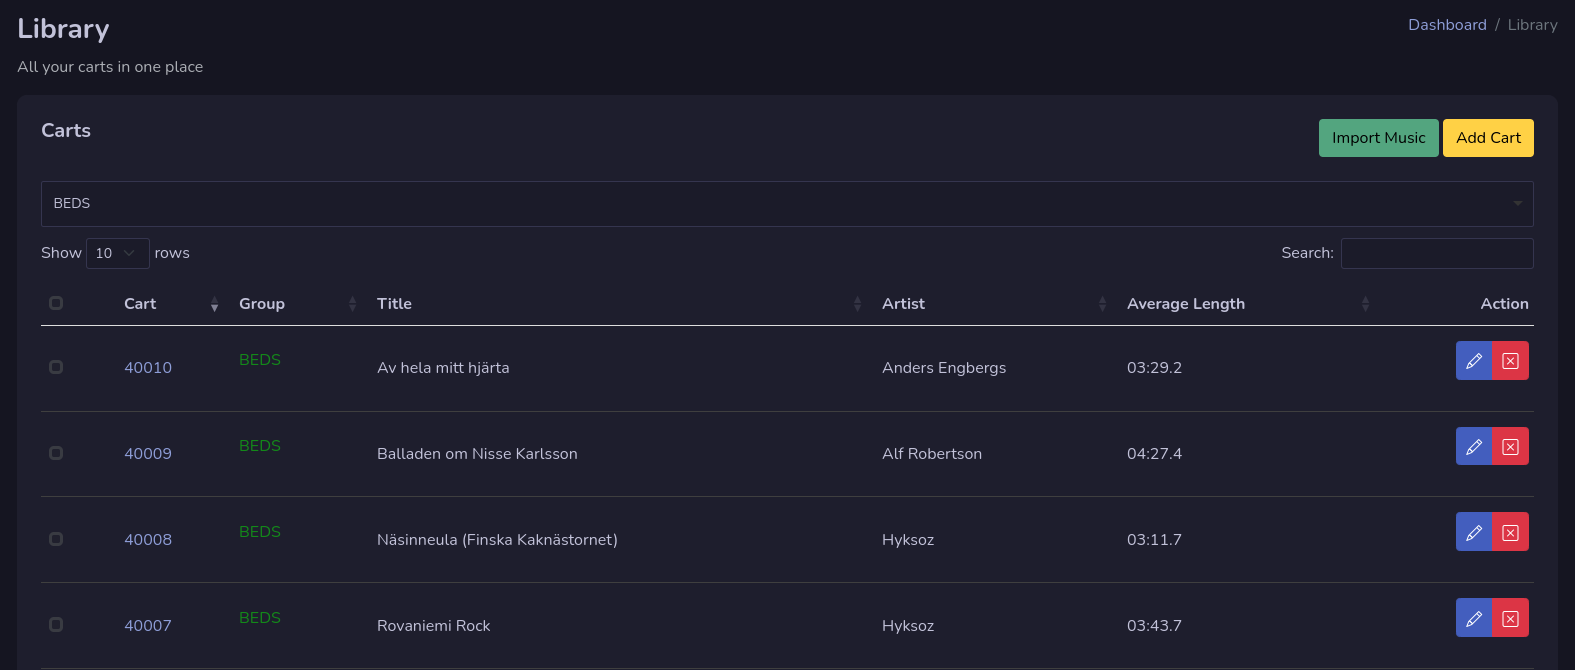
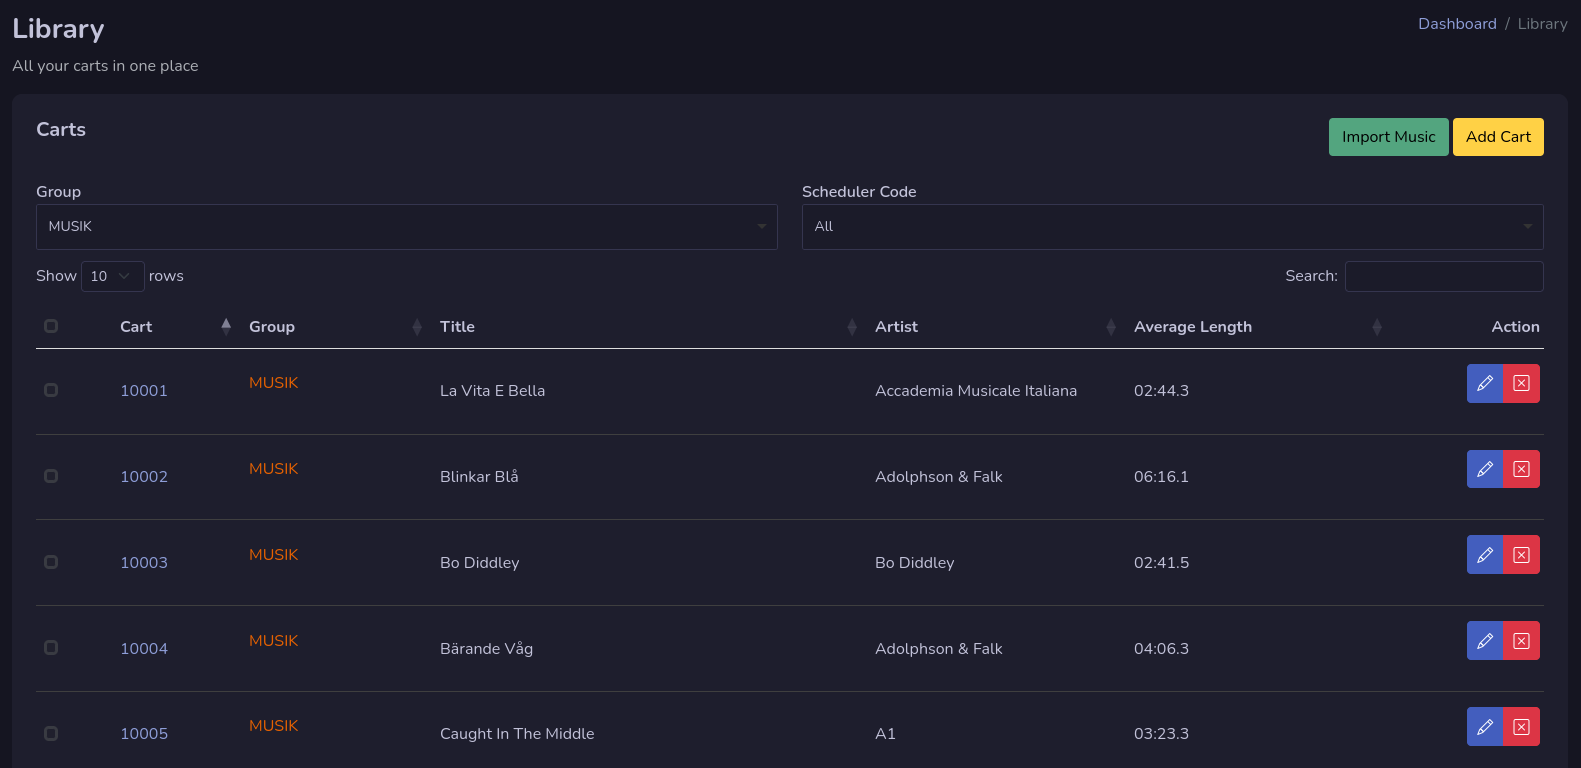
Updated librar information

diff --git a/docs/library.md b/docs/library.md
@@ -2,12 +2,23 @@
 
 ![Screenshot](img/library.png)
 
-Library is the place where you find all your carts that you have access to. **Depending on how many groups you have access to.**
+Library is the place where you find all your carts that you have access to. 
+
+!!! Info
+
+    **You will only get carts that belongs to groups you have access to.**
 
 There are some main functions here that you can do.
 
 ## Group selection
 On the drop down list you can select what group you would like to work in. You can also select to show all groups. The system will remember the group you have selected and store it in a cookie.
+
+## Scheduler Code
+On the drop down list you can select what scheduler code you would like to view carts from.
+
+!!! Info
+
+    If you have a group like music with carts that have multiple scheduler codes, you can select the group music and then sort the table by a scheduler code. Or you can get all carts that have that scheduler code.
 
 ## Library Table
 The library table you can select up to 100 carts per page. On the bottom you can go to next page if there are more than 100. In the search bar you can search for carts.
@@ -18,16 +29,29 @@ Each cart has action buttons that you can use depending on what you would like t
 The pen button on each cart will take you to the edit page for that cart. You can also press on the cart number to go to the edit page.
 
 ### Remove Cart
-The red button with an **X** on will remove the cart, you will get a warning before you remove the cart. **Voice tracks that belongs to logs can not be removed**
+The red button with an **X** on will remove the cart, you will get a warning before you remove the cart. 
+
+!! Warning
+
+    **Voice tracks that belongs to logs can not be removed**
+
 
 ## Multi Edit Carts
 ![Screenshot](img/multiedit.png)
 The multi edit function let you edit multiple fields in multiple carts. You will get access to this function if you check the check boxes that are before cart numbers on the carts you will edit.
 
-You will see that it will pop up two buttons on the screen, click on Multi edit carts button, and it will pop up a window where you can make changes in. **Only fields that you write in will be updated.**
+You will see that it will pop up two buttons on the screen, click on Multi edit carts button, and it will pop up a window where you can make changes in. 
+
+!! Info
+
+    **Only fields that you write in will be updated.**
 
 ## Delete Carts
-You can delete multiple carts by select the check boxes and press the Delete Selected button that will pop up. **Voice tracks that belongs to logs can not be removed**
+You can delete multiple carts by select the check boxes and press the Delete Selected button that will pop up.
+
+!! Warning
+
+    **Voice tracks that belongs to logs can not be removed**
 
 ## Import Music
 ![Screenshot](img/importmusic.png)
